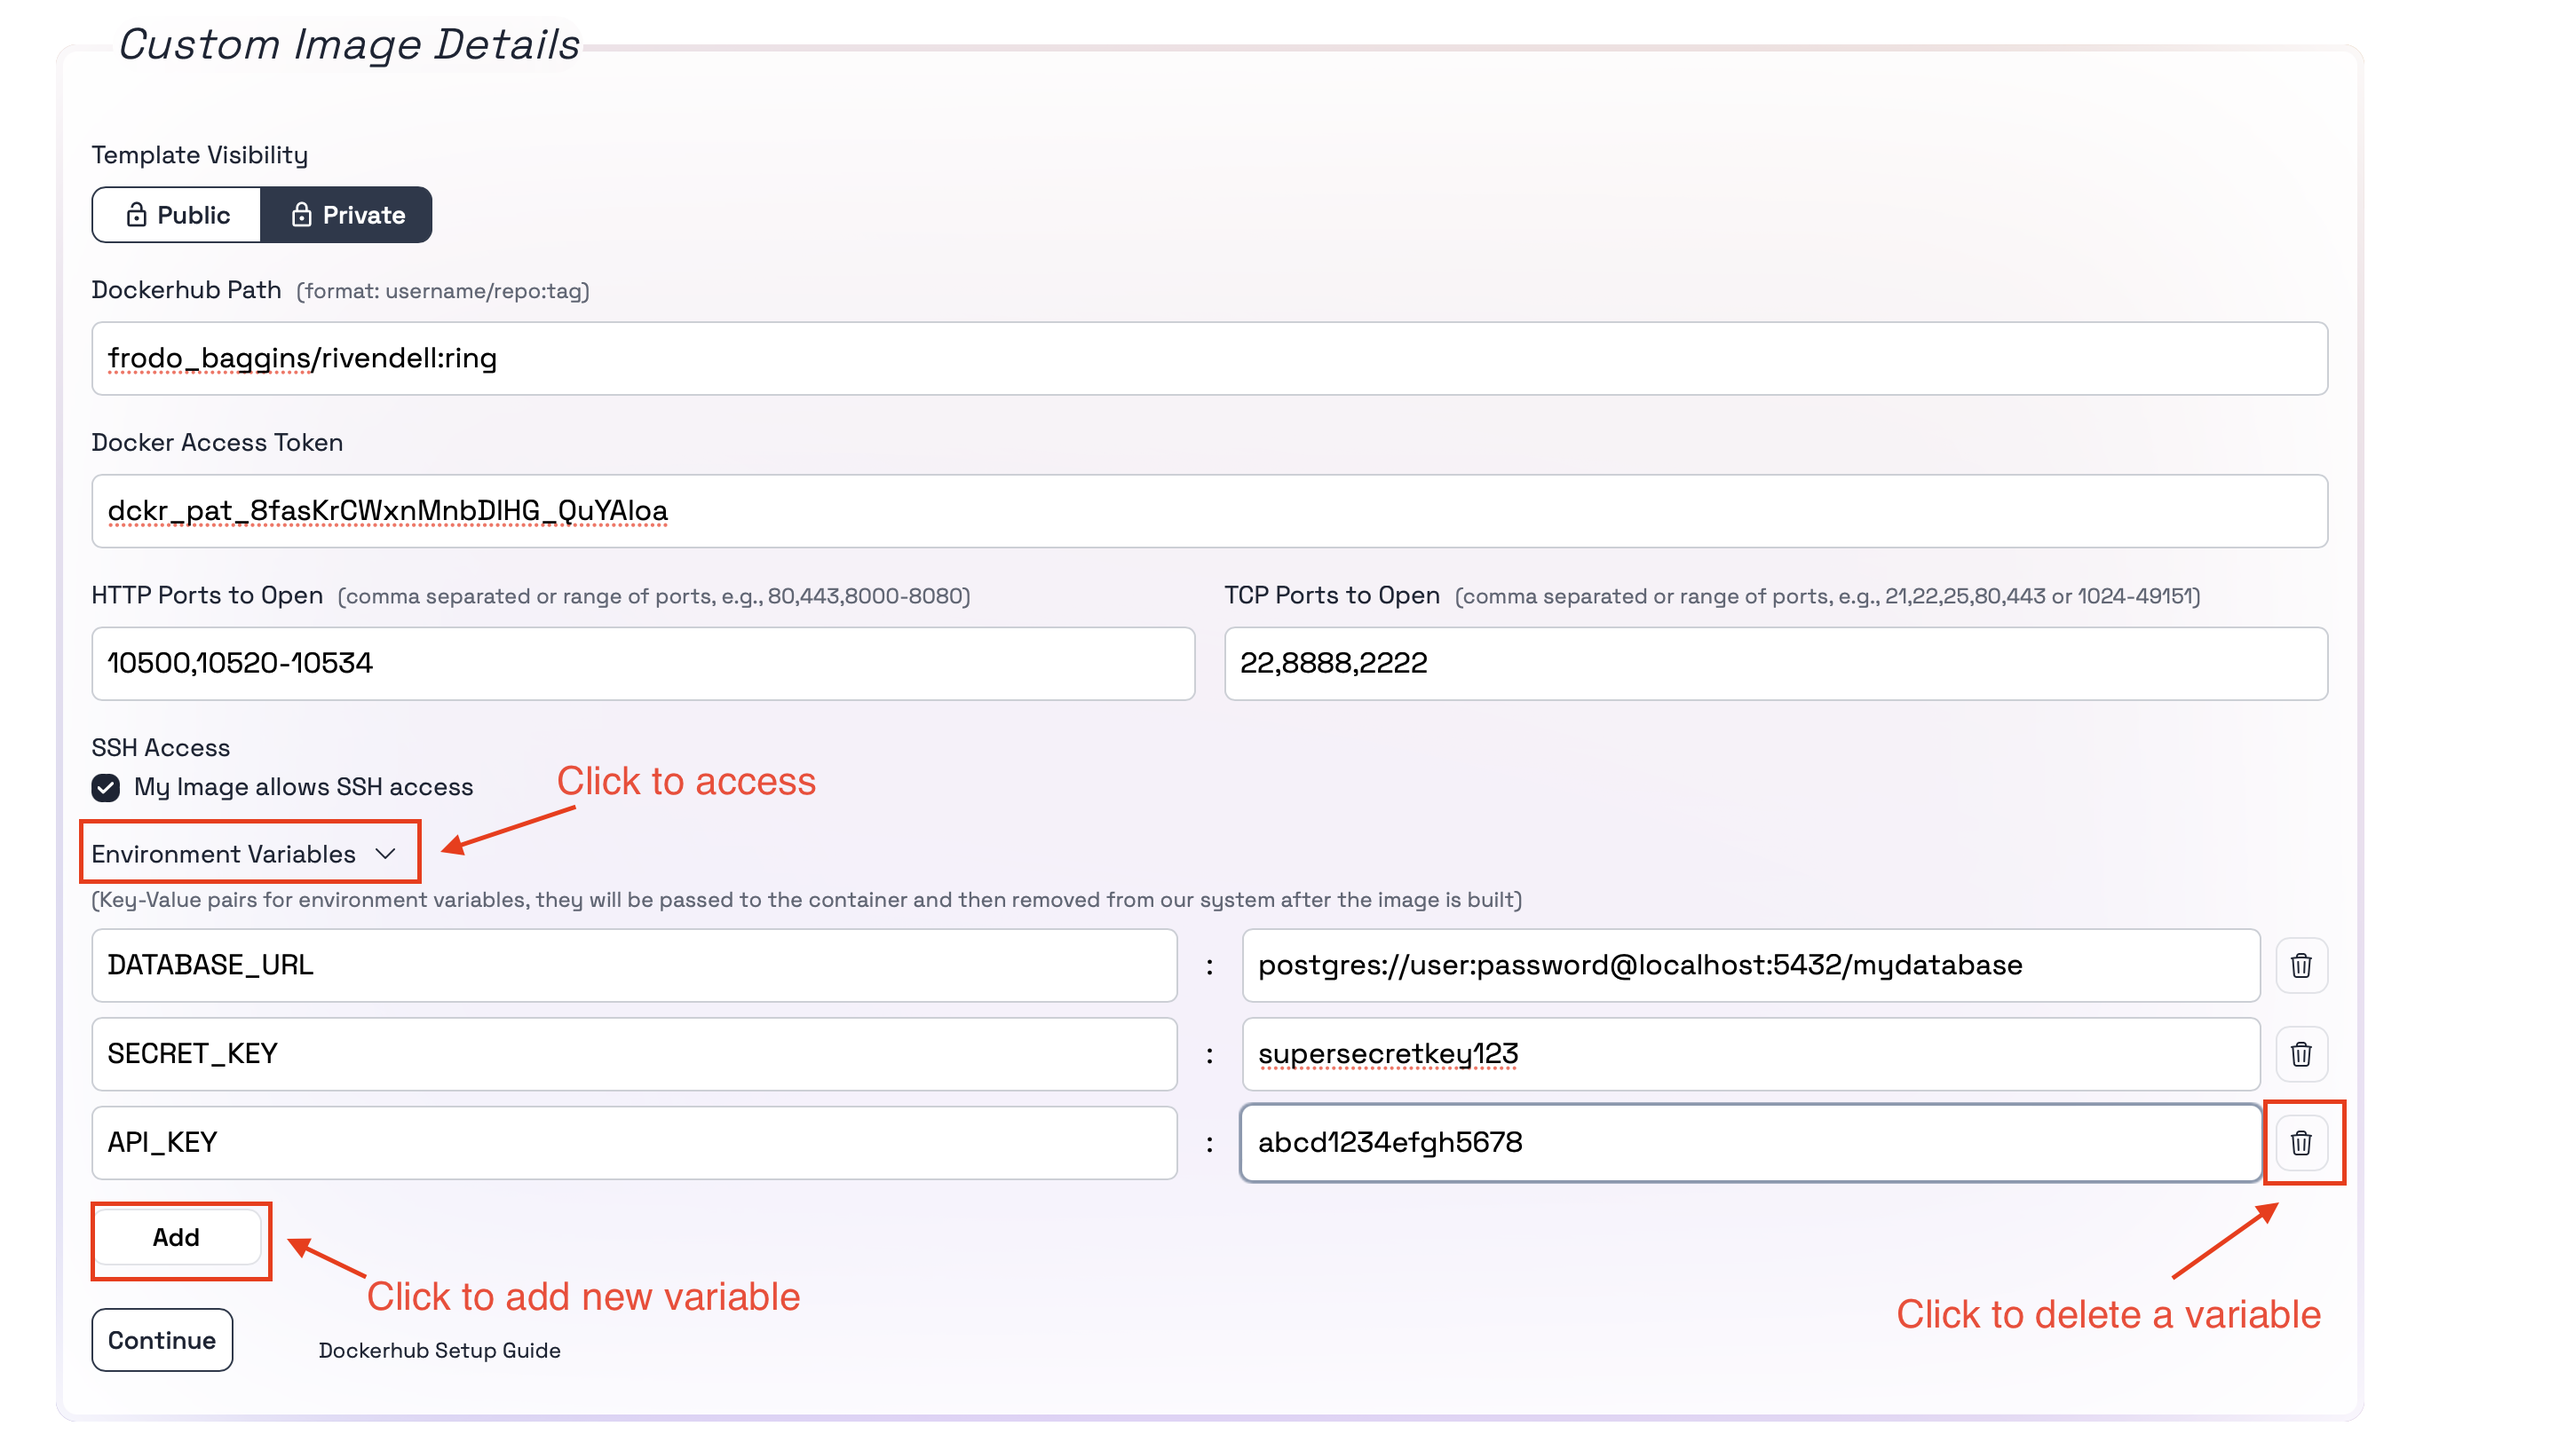
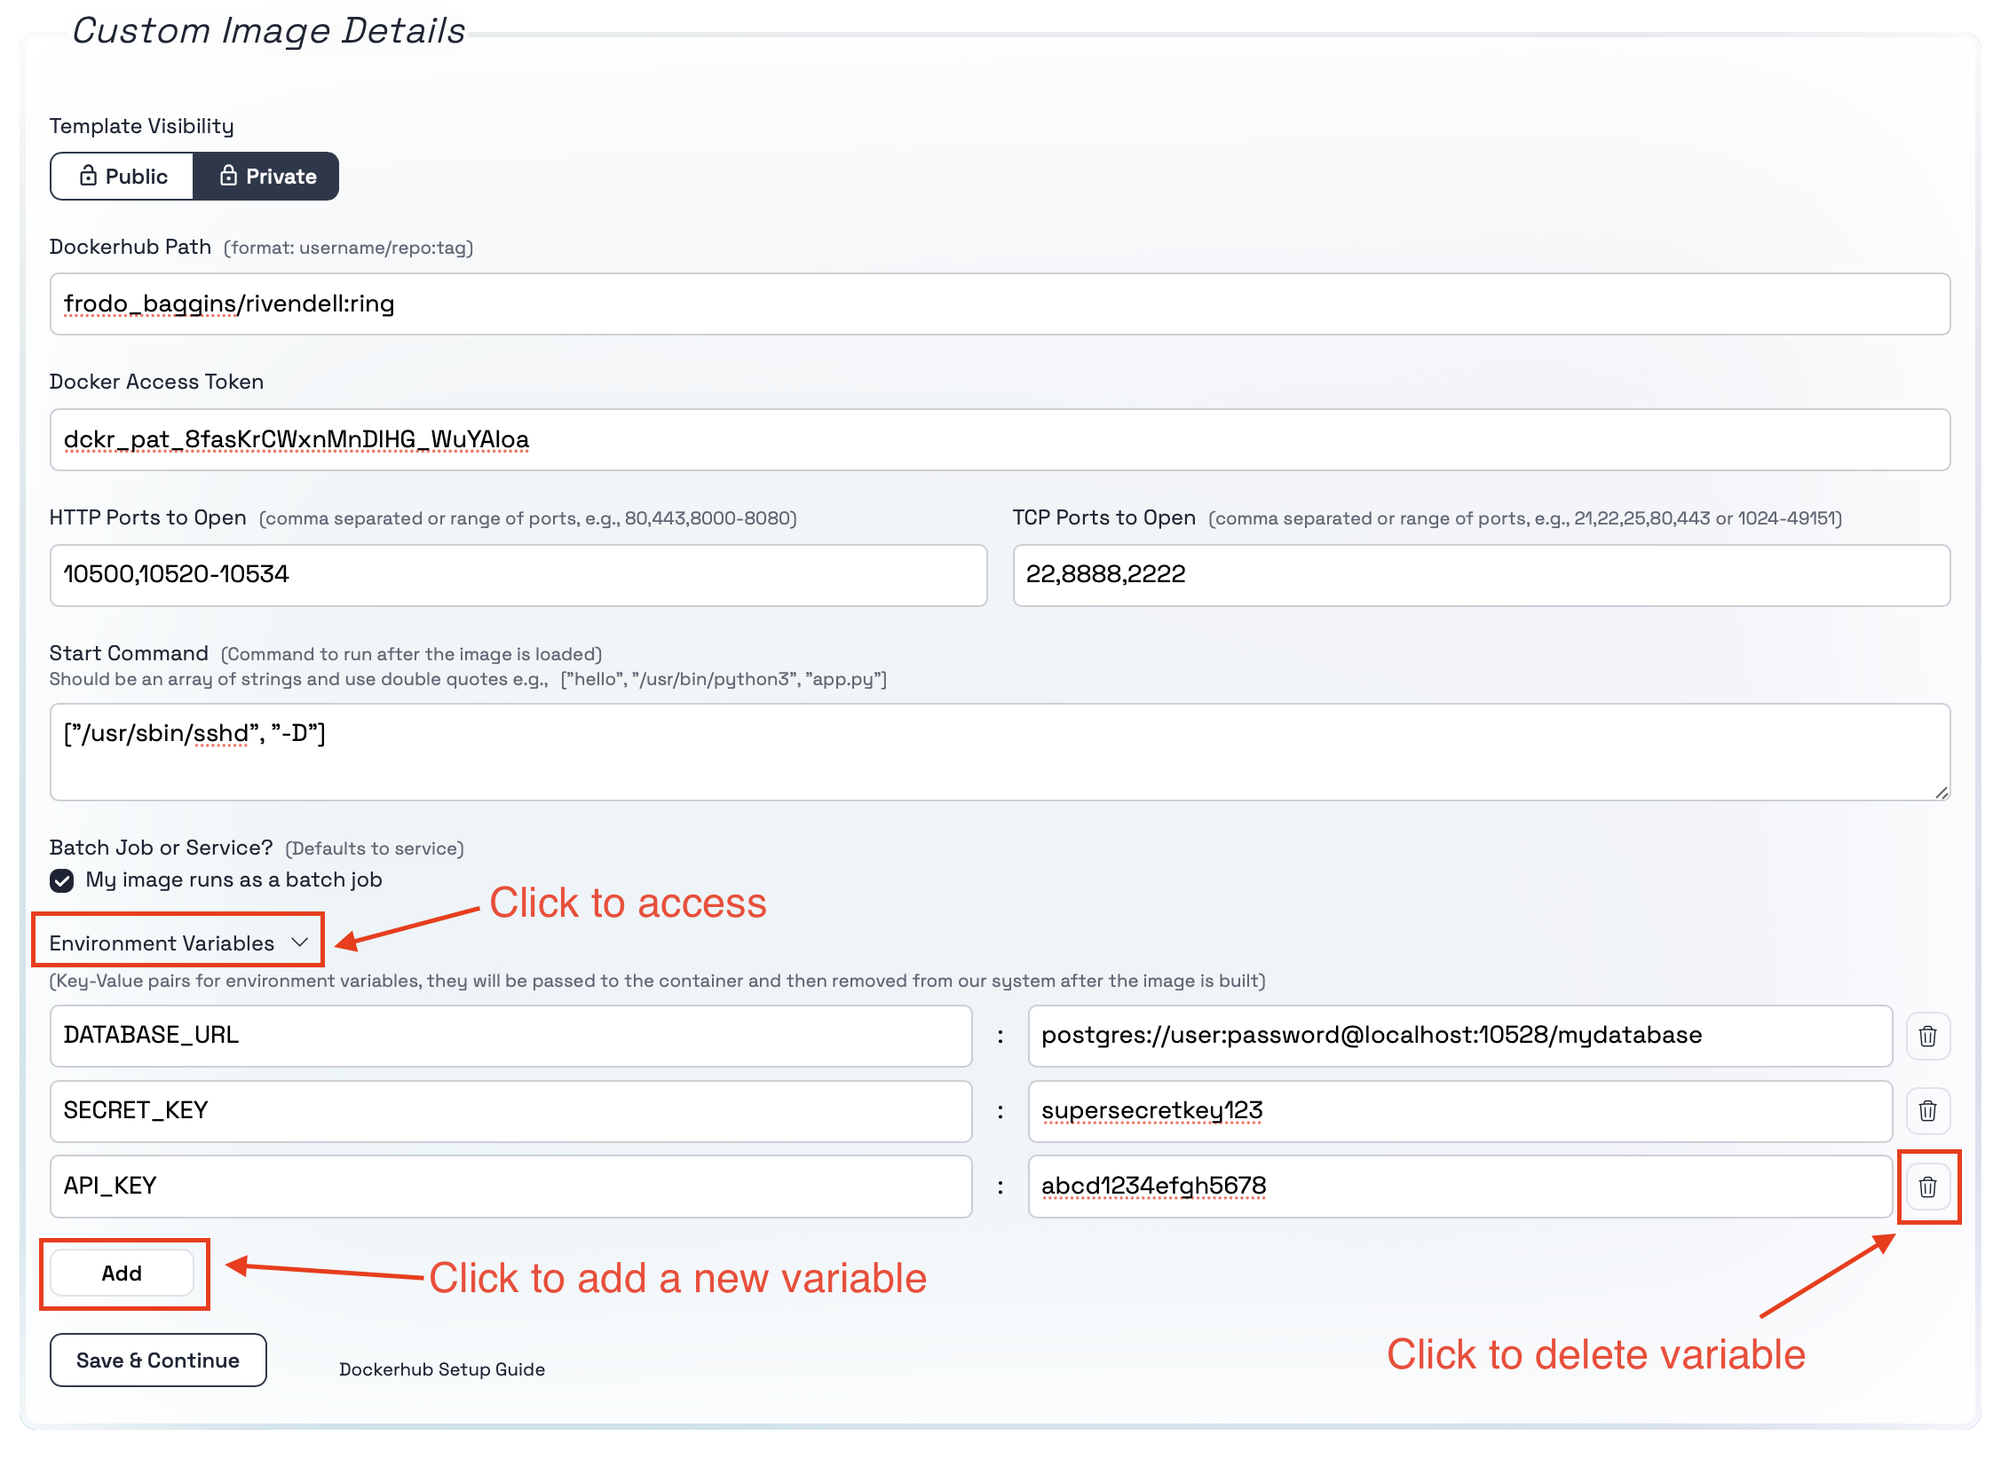
update byo image

diff --git a/custom_image/custom_image.md b/custom_image/custom_image.md
@@ -12,7 +12,7 @@ By choosing the __Custom Image__ option you will be presented with a various set
 
 ![settings_section](./pictures/settings_section.png)
 
-Here you can add the path to your docker image and the ports(TCP or HTTP) that you want to open for the container. If you would like a range of ports too be open you can use "-" sign to define a range, e.g. 10520-10534 is all the port between 10520 and 10534 including those two ports too.
+Here you can add the path to your docker image and the ports(TCP or HTTP) that you want to open for the container.
 
 
 
@@ -20,14 +20,31 @@ Here you can add the path to your docker image and the ports(TCP or HTTP) that y
 
 If you would like to access an image in your private repository you can click on the private button, it will open a field for your to enter your docker access token. 
 
-To createa new __Access Token__ use [this](https://docs.docker.com/security/for-developers/access-tokens/) link.
+To create a new __Access Token__ use [this](https://docs.docker.com/security/for-developers/access-tokens/) link.
 
 ![private_option](./pictures/private_option.png)
 
 
+
+## How to select ports for your container:
+
+To open ports for your container you can enter your desired TCP or HTTP ports into their respective fields. If you would like to define a range/series of ports you can use "-" between the two end-ports of the series. This will include all the ports between the two end-ports including the ends-ports as well, e.g. 10520-10534 is all the port between 10520 and 10534 including those two ports too.
+
+![ports_selection](./pictures/ports_selection.png)
+
+
+## How to define your star command:
+
+
+It is popular with docker containers to define a start-command that starts your application. If you did not define one in your container or you would like to overwrite it, you can define your custom start-command in the __Start Command__ field. Similarly to Docker containers, we require you to define your start-command as an array of string separated by commas, e.g. ["/usr/sbin/sshd", "-D"] .
+
+
+![start_command](./pictures/start_command.png)
+
+
 ## How to have ssh access to your instance
 
-To be able to ssh into your instance you will need to have an ssh server set up in your docker image on port 22 with your chosen ssh key(s) present in your authorized keys folder.
+To be able to ssh into your instance you will need to have an ssh server set up in your docker image on port 22 (or your specified port) with your chosen ssh key(s) present in your authorized keys folder.
 
 If you do not know how to do this here is a template of an image that sets up ans ssh server on port 22 and copies your public ssh key from your chosen directory into your 
 
@@ -52,28 +69,35 @@ RUN mkdir -p /root/.ssh && \
     rm /tmp/id_rsa.pub
 
 # Expose port 22 to the outside world
+# it is just documentation
 EXPOSE 22
 
 # Start the SSH service
-CMD ["/usr/sbin/sshd", "-D"]
+# you can add the start command here too 
+CMD ["/usr/sbin/sshd", "-D"] 
 
 ```
 
 
-
-If the mentioned things above are all set up, then you just have to click the SSH ACCESS button and add port 22 to the TCP ports.
-
-![ssh_access](./pictures/ssh_access.png)
+If the mentioned things above are all set up, then you just have add port 22 (or your specified port) to the TCP ports.
 
 
 
-__IMPORTANT!__ If you do not select these options then your image will be run as a batch job, meaning you will not be able to access it and will be completed once the apllication terminates. However, if you do not want to interact with you image andjust want it to execute a job then you can do that too by not selecting these options.
 
 ## How to add enviornment variables
 
 If you would like to add enviornment variables to your instance you can click on the "Enviornment Variables" drop down menu where you can define the keys(variable names) and values that you would like to add as enviornment variables.
 
 ![env_variables](./pictures/env_varibles.png)
+
+
+
+## Run your container as a batch job
+
+If your container is not meant to serve requests and it is created for executing a job where the container calculates or executes a batch job based on some specification, but it does not actively interact with the the outside world, then you can select "My image runs as a batch job" option. This will not create an associated service or port mapping for your container, it simply runs the container until it completes its tasks.
+
+
+![batch_job](./pictures/batch_job.png)
 
 
 
